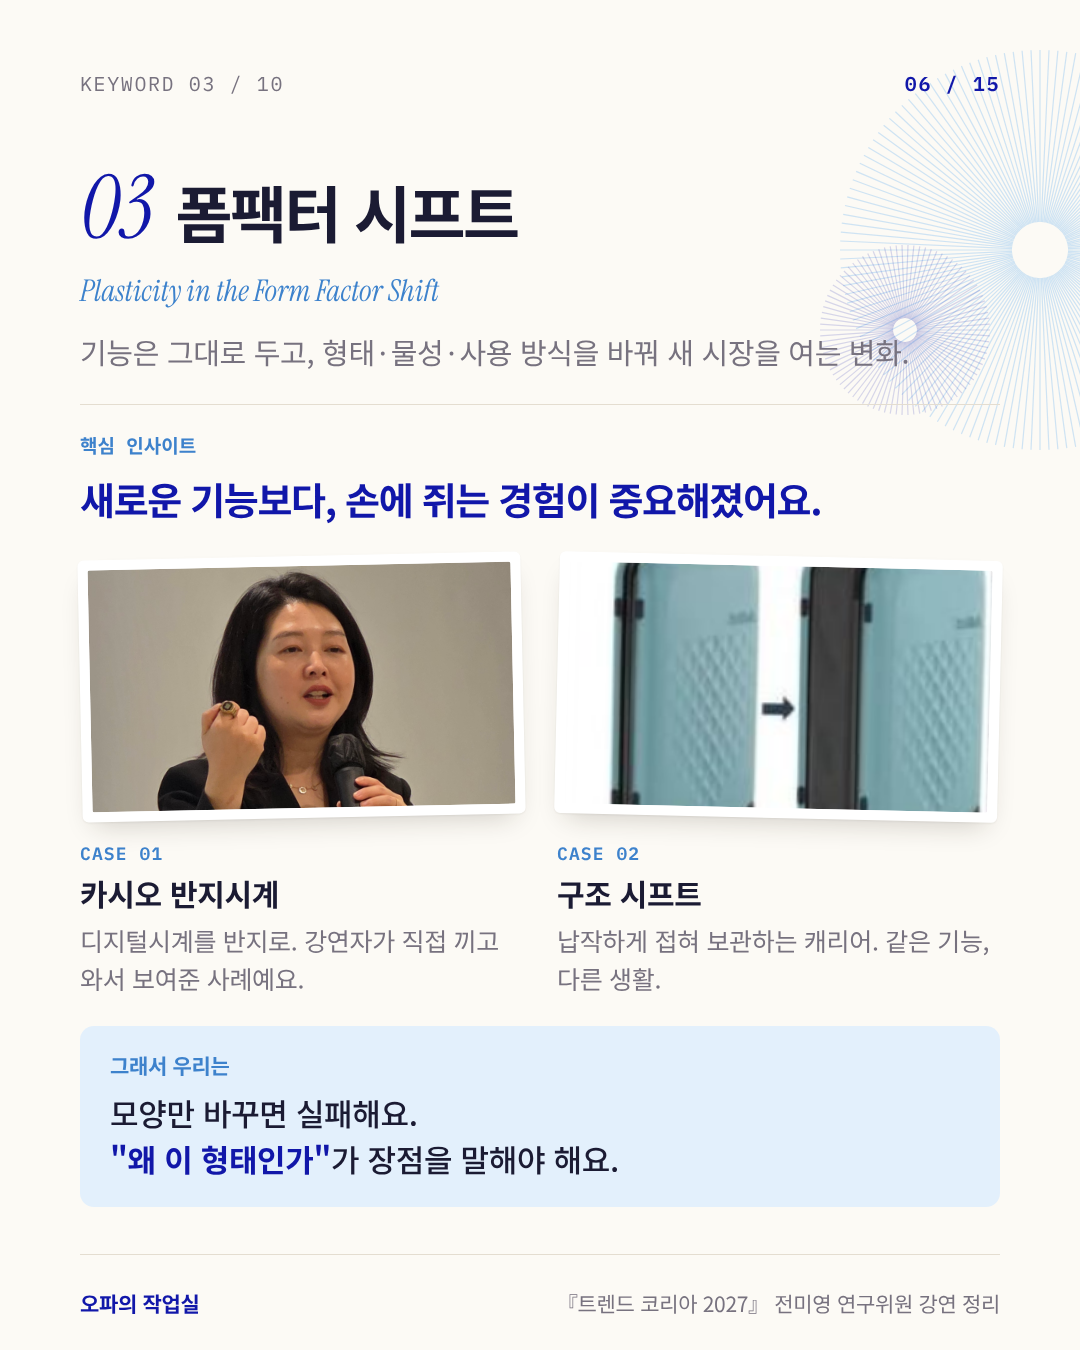
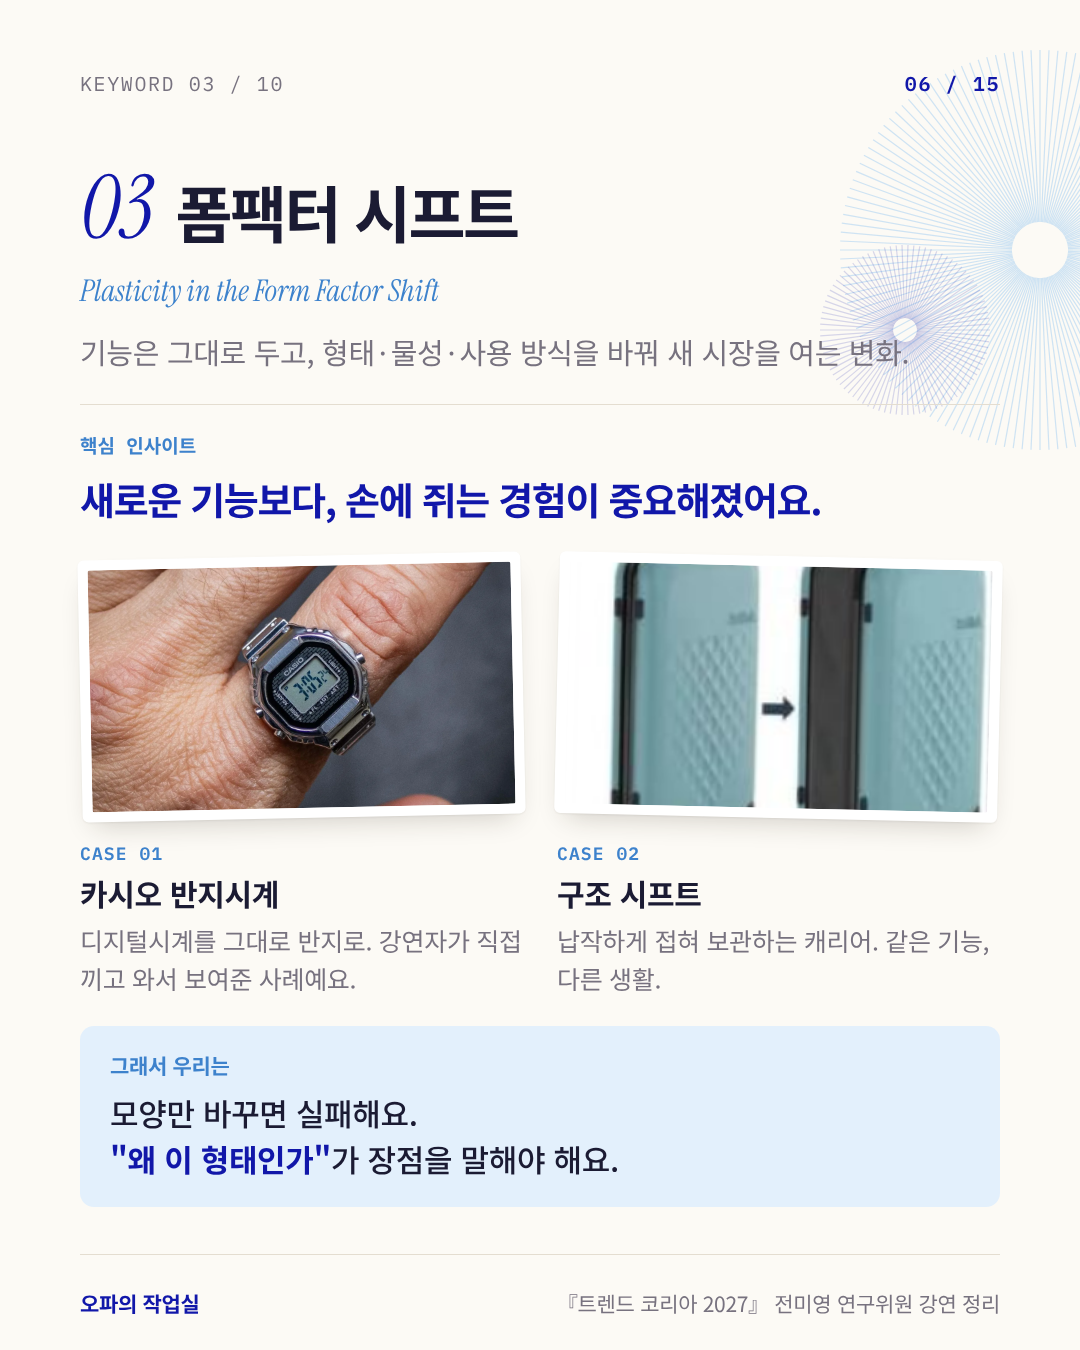
폼팩터 시프트 CASE 01을 카시오 반지시계 제품 사진으로 교체, 강연자 사진 제거
Claude-Session: https://claude.ai/code/session_016hvv34jPWo253fQY5tLEVV

Changed region(s): [[0.0611, 0.4044, 0.4889, 0.6222], [0.0611, 0.6844, 0.4889, 0.7467]]

diff --git a/cardnews/trend-korea-2027/full2/full.html b/cardnews/trend-korea-2027/full2/full.html
@@ -73,8 +73,8 @@
   <hr>
   <div class="lab">핵심 인사이트</div>
   <h3>새로운 기능보다, 손에 쥐는 경험이 중요해졌어요.</h3>
-  <div class="cases"><div class="case"><div class="ph "><img src="../img/speaker_ring.png" alt=""></div><div class="cl">CASE 01</div>
-      <div class="ch">카시오 반지시계</div><div class="cd">디지털시계를 반지로. 강연자가 직접 끼고 와서 보여준 사례예요.</div></div><div class="case"><div class="ph "><img src="../img/rollink.png" alt=""></div><div class="cl">CASE 02</div>
+  <div class="cases"><div class="case"><div class="ph "><img src="../img/casio_ring.png" alt=""></div><div class="cl">CASE 01</div>
+      <div class="ch">카시오 반지시계</div><div class="cd">디지털시계를 그대로 반지로. 강연자가 직접 끼고 와서 보여준 사례예요.</div></div><div class="case"><div class="ph "><img src="../img/rollink.png" alt=""></div><div class="cl">CASE 02</div>
       <div class="ch">구조 시프트</div><div class="cd">납작하게 접혀 보관하는 캐리어. 같은 기능, 다른 생활.</div></div></div>
   <div class="beauty"><span>그래서 우리는</span>모양만 바꾸면 실패해요.<br><b>"왜 이 형태인가"</b>가 장점을 말해야 해요.</div>
   <div class="foot"><span>오파의 작업실</span><span>『트렌드 코리아 2027』 전미영 연구위원 강연 정리</span></div>

diff --git a/cardnews/trend-korea-2027/full2/build.py b/cardnews/trend-korea-2027/full2/build.py
@@ -59,7 +59,7 @@ KW = [
      '"써보면 압니다"는 안 통해요.<br><b>첫 경험에서 가치</b>가 느껴지게.'),
     ('03', '폼팩터 시프트', 'Plasticity in the Form Factor Shift', '기능은 그대로 두고, 형태·물성·사용 방식을 바꿔 새 시장을 여는 변화.',
      '새로운 기능보다, 손에 쥐는 경험이 중요해졌어요.',
-     [('speaker_ring', '카시오 반지시계', '디지털시계를 반지로. 강연자가 직접 끼고 와서 보여준 사례예요.'),
+     [('casio_ring', '카시오 반지시계', '디지털시계를 그대로 반지로. 강연자가 직접 끼고 와서 보여준 사례예요.'),
       ('rollink', '구조 시프트', '납작하게 접혀 보관하는 캐리어. 같은 기능, 다른 생활.')],
      '모양만 바꾸면 실패해요.<br><b>"왜 이 형태인가"</b>가 장점을 말해야 해요.'),
     ('04', '해봄경제', "'Have-a-Go' Economy", '완벽하게 준비하기보다, 일단 해보고 고쳐 나가는 경제.',
